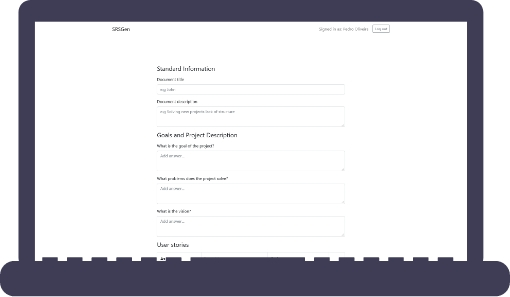
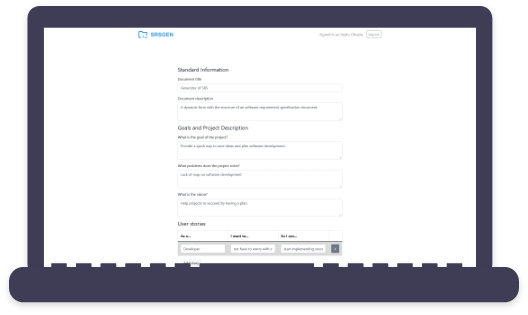
landingpage and graphics update

Changed region(s): [[0.0, 0.0, 1.0, 1.0], [0.2941, 0.2121, 0.6176, 0.6667]]

diff --git a/client/src/components/Landing/Landing.js b/client/src/components/Landing/Landing.js
@@ -9,6 +9,7 @@ import "./Landing.css";
 import logo from "../../Graphics/logo_blue.svg";
 import logoGrey from "../../Graphics/logo_grey.svg";
 import laptop from "../../Graphics/laptop.jpg";
+import mobile from "../../Graphics/mobile.jpg";
 import linkedin from "../../Graphics/linkedin.svg";
 import github from "../../Graphics/github.svg";
 
@@ -18,6 +19,7 @@ function Landing() {
       <div className="landing-message text-center">
         Website in continuos development, visit everyday for a new update.
       </div>
+      {/* NAVBAR ############################################################################# */}
       <Navbar className="d-flex justify-content-between">
         <Navbar.Brand href="/">
           <img src={logo} />
@@ -27,20 +29,25 @@ function Landing() {
         </Button>
       </Navbar>
       <Container>
-        <Row>
-          <Col sm={7}>
-            <h3>
+        {/* HEADER ############################################################################# */}
+        <Row className="text-center header-container align-items-center">
+          <Col lg={7} id="header-col1" className="text-lg-start  flex">
+            <h2 className="header-text fw-bolder">
               Your 'Drive' for Software Requirements Specification documents
-            </h3>
+            </h2>
             <Button href="/register">Try now, it's free</Button>
           </Col>
-          <Col sm={5}>
-            <img src={laptop} className="header-img" />
+          <Col lg={5} id="header-col2">
+            <img src={laptop} className="header-img laptop-img" />
+            <img src={mobile} className="header-img mobile-img" />
           </Col>
         </Row>
-        <Row className="d-flex justify-content-center text-center">
-          <Col sm={4}>
-            <h4>Why and what is a Software Requirement Specification?</h4>
+        {/* EXPLANATION ############################################################################# */}
+        <Row className="d-flex justify-content-center text-center explanation-container">
+          <Col md={10} lg={6}>
+            <h4 className="fw-bold" style={{ marginBottom: 16 }}>
+              Why and what is a Software Requirement Specification?
+            </h4>
             <p>
               Before going into grand adventures or building a house, we usually
               develop a plan unless we want to be trully adventurous. Developing
@@ -51,43 +58,50 @@ function Landing() {
             </p>
           </Col>
         </Row>
-        <Row>
-          <Col>
-            <h3>CREATE</h3>
+        {/* FEATURES ############################################################################# */}
+        <Row className="text-center justify-content-center features-container">
+          <Col lg="4" className="feature">
+            <h3 className="fw-bolder">CREATE</h3>
             <p>
               Create a document for each of your new idea and it'll be saved so
-              you can have access acros multiple devices
+              you can have access across multiple devices.
             </p>
           </Col>
-          <Col>
-            <h3>CREATE</h3>
+          <Col lg="4" className="feature">
+            <h3 className="fw-bolder">UPDATE</h3>
             <p>
-              Create a document for each of your new idea and it'll be saved so
-              you can have access acros multiple devices
+              Don't have everything figured out yet? No problem, as long as
+              you've saved the unfinished document you can come back later to
+              complete it.
             </p>
           </Col>
-          <Col>
-            <h3>CREATE</h3>
+          <Col lg="4" className="feature">
+            <h3 className="fw-bolder">DOWNLOAD</h3>
             <p>
-              Create a document for each of your new idea and it'll be saved so
-              you can have access acros multiple devices
+              Everything's set in stone? Congratulations! I bet you want to
+              share it with your team, or simply have handy on your device. Feel
+              free to download the document as a PDF.
             </p>
           </Col>
         </Row>
       </Container>
+      {/* CTA ############################################################################# */}
       <div className="cta-container text-center">
-        <h2 style={{ marginBottom: 32 }}>Better seen than said right?</h2>
+        <h2 style={{ marginBottom: 48 }} className="fw-bolder">
+          Better seen than said right?
+        </h2>
         <Button href="/register" variant="light">
           TRY FOR FREE
         </Button>
       </div>
+      {/* FOOTER ############################################################################# */}
       <div id="footer" className="text-center">
         <div>
           <a href="/" style={{ marginBottom: 24, display: "block" }}>
             <img src={logoGrey} />
           </a>
           <p>
-            Project developer by{" "}
+            Project developed by{" "}
             <a
               href="https://www.linkedin.com/in/pedromnoliveira/"
               target="_blank"

diff --git a/client/src/components/Document/DocumentForm/DocumentForm.js b/client/src/components/Document/DocumentForm/DocumentForm.js
@@ -31,7 +31,6 @@ function DocumentForm(props) {
           <Form.Control
             type="text"
             name="title"
-            placeholder="e.g John"
             value={document ? document.title : "empty"}
             onChange={handleChange}
             maxLength={69}
@@ -45,7 +44,6 @@ function DocumentForm(props) {
             name="description"
             as="textarea"
             row={2}
-            placeholder="e.g Solving new projects lack of structure"
             value={document ? document.description : "empty"}
             onChange={handleChange}
             required
@@ -59,7 +57,6 @@ function DocumentForm(props) {
             row={2}
             name="goals"
             as="textarea"
-            placeholder="Add answer..."
             value={document ? document.goals : "empty"}
             onChange={handleChange}
           />
@@ -71,7 +68,6 @@ function DocumentForm(props) {
             row={2}
             as="textarea"
             name="problems"
-            placeholder="Add answer..."
             value={document ? document.problems : "empty"}
             onChange={handleChange}
           />
@@ -83,7 +79,6 @@ function DocumentForm(props) {
             row={2}
             as="textarea"
             name="vision"
-            placeholder="Add answer..."
             value={document ? document.vision : "empty"}
             onChange={handleChange}
           />
@@ -103,7 +98,6 @@ function DocumentForm(props) {
           <Form.Control
             type="text"
             name="timeline"
-            placeholder="e.g. 2 months"
             value={document ? document.timeline : "empty"}
             onChange={handleChange}
             maxLength={115}
@@ -114,7 +108,6 @@ function DocumentForm(props) {
           <Form.Control
             type="text"
             name="budget"
-            placeholder="e.g. €1000"
             value={document ? document.budget : "empty"}
             onChange={handleChange}
             maxLength={115}
@@ -125,7 +118,6 @@ function DocumentForm(props) {
           <Form.Control
             type="text"
             name="risks"
-            placeholder="e.g. burnout!"
             value={document ? document.risks : "empty"}
             onChange={handleChange}
             maxLength={115}

diff --git a/client/src/components/Landing/Landing.css b/client/src/components/Landing/Landing.css
@@ -1,8 +1,80 @@
+/* DOCUMENT INFORMATION
+	- Document: Landing page styles
+	- Author:   Pedro d'Oliveira
+*/
+
+/* COMPONENTS DIRECTORY
+	  1. =Header
+    2. =Explanation
+    3. =Features
+    4. =CTA
+    5. =Footer
+*/
+
+/* ------------------------------------------------------------------------------ */
+
+/* Temporary message */
+.landing-message {
+  padding: 4px;
+  background-color: #ff0077;
+  color: white;
+  font-size: 14px;
+  font-weight: bold;
+  margin-bottom: 8px;
+}
+
+/* ===HEADER=== */
+.header-container {
+  margin-top: 60px;
+  margin-bottom: 88px;
+}
+
+.header-text {
+  margin-bottom: 32px;
+}
+
+.header-img {
+  width: 100%;
+}
+
+#header-col1 {
+  margin-bottom: 80px;
+}
+
+.laptop-img {
+  display: none;
+}
+
+.mobile-img {
+  max-width: 300px;
+}
+
+/* ===EXPLANATION=== */
+.explanation-container {
+  margin-bottom: 94px;
+}
+
+/* ===FEATURES=== */
+.feature {
+  max-width: 400px;
+  margin-bottom: 56px;
+}
+
+/* ===CTA=== */
+.cta-container {
+  background-color: #007bff;
+  color: white;
+  padding: 200px 0;
+  margin-top: 80px;
+}
+
+/* ===FOOTER=== */
 #footer {
-  background-color: #e7e7e7;
+  background-color: #f7f7f7;
   padding: 56px 56px;
 }
 
+/* Social media icons & container */
 .social-media {
   margin-top: 40px;
 }
@@ -13,8 +85,23 @@
   width: 100%;
 }
 
-.cta-container {
-  background-color: #007bff;
-  color: white;
-  padding: 80px;
+/* ===MEDIA QUERIES=== */
+@media (min-width: 992px) {
+  #header-col1 {
+    margin-bottom: 0px;
+  }
+
+  .mobile-img {
+    display: none;
+  }
+
+  .laptop-img {
+    display: block;
+  }
+
+  .header-container,
+  .explanation-container,
+  .features-container {
+    margin-bottom: 200px;
+  }
 }
